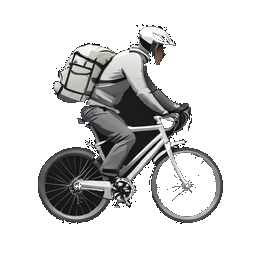
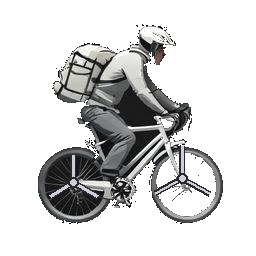
feat(assets): ship the animated courier — full-cyclist sprite, 6-frame wheel spin
Art gate outcome (Bertrand): the FLUX full-cyclist base (seed 5220)
becomes THE courier sprite. Its 6 frames all derive from that single
base with dark-outlined tri-spoke Ys stamped at 20-degree steps by the
generalized retouch-courier-spokes.mjs (replaces retouch-bike-spokes;
the validated bike layer is retired from the composite but its art and
retouch config stay as spare). CourierSprite renders the rider layer
only (bike mesh now serves just the pre-art fallback); courierArtReady
gates on the rider alone. Verified in-game headless: courier rides both
directions with the civilian tint, all 6 frames served, zero JS errors.

Claude-Session: https://claude.ai/code/session_01QeAWVzViSkMBgP9nVbGHat

Changed region(s): [[0.5938, 0.5625, 0.8438, 0.7812], [0.1875, 0.5938, 0.4062, 0.7812]]

diff --git a/src/render/scene/CourierSprite.tsx b/src/render/scene/CourierSprite.tsx
@@ -38,14 +38,16 @@ function setMap(mesh: Mesh, tex: Texture | null): void {
 }
 
 /**
- * Renders the street couriers (livreurs) as a two-plane composite: a BIKE plane
- * (wheel-rotation flipbook, z 0.70) under a RIDER plane (pedalling flipbook,
- * z 0.701), both flipped to face travel direction. Driven each frame from the
- * game state's `couriers` (world positions), like BulletSprite's pool.
+ * Renders the street couriers (livreurs). The RIDER layer is the complete
+ * cyclist sprite (FLUX base + wheel rotation stamped across its 6 frames by
+ * scripts/retouch-courier-spokes.mjs); the BIKE layer was retired from the
+ * composite after the art gate picked the full-cyclist sprite (its validated
+ * art stays committed as spare, and its mesh here only serves the pre-art
+ * fallback). Driven each frame from the game state's `couriers` (world
+ * positions), like BulletSprite's pool.
  *
- * Until BOTH layers' frame-1 art exists (generated later in CI), the composite
- * falls back to the legacy single civilian sprite on the bike plane so the game
- * is visually unchanged from before this feature.
+ * Until the rider frame-1 art exists (generated in CI), it falls back to the
+ * legacy single civilian sprite so the game is visually unchanged.
  */
 export function CourierSprite({ stateRef }: Props): JSX.Element {
   const bikeRefs = useRef<(Mesh | null)[]>(Array.from({ length: MAX_COURIERS }, () => null));
@@ -83,13 +85,13 @@ export function CourierSprite({ stateRef }: Props): JSX.Element {
         continue;
       }
 
-      bike.visible = true;
+      // Bike layer retired from the composite (full-cyclist rider sprite won
+      // the art gate); its mesh is only the pre-art fallback above.
+      bike.visible = false;
       rider.visible = true;
       // id-derived phase (0.29 is a small irrational-ish offset) so couriers on
-      // screen at once don't pedal/roll in lockstep; both layers of one courier
-      // share this phase so wheels and legs stay in sync.
+      // screen at once don't roll in lockstep.
       const phase = courier.id * 0.29;
-      updateLayer(bike, "bike", courier, phase, clock.current, BIKE_Z);
       updateLayer(rider, "rider", courier, phase, clock.current, RIDER_Z);
     }
   });

diff --git a/src/render/scene/courierTextures.ts b/src/render/scene/courierTextures.ts
@@ -95,15 +95,16 @@ export function getCourierTexture(layer: string, frame: number): Texture | null 
   return cache.get(frameFile) ?? cache.get(frame1File) ?? null;
 }
 
-// True only once frame 1 of BOTH layers is decoded and cached — the gate
-// CourierSprite uses to swap from the legacy single sprite to the two-plane
-// composite. Calling it also kicks off loading of both layers' frames. Note: a
-// 404 poisons the `failed` set for the whole session (same policy as
+// True only once the RIDER layer's frame 1 is decoded and cached — the gate
+// CourierSprite uses to swap from the legacy single sprite to the animated
+// full-cyclist sprite (the bike layer was retired from the composite; its art
+// stays committed as spare). Calling it also kicks off loading of the frames.
+// Note: a 404 poisons the `failed` set for the whole session (same policy as
 // enemyTextures), so a client loaded BEFORE the CI art landed keeps the legacy
 // sprite until the next page load — the swap is per-load, not live.
 export function courierArtReady(): boolean {
   let ready = true;
-  for (const layer of ["bike", "rider"]) {
+  for (const layer of ["rider"]) {
     const entry = LAYERS[layer];
     if (entry === undefined) {
       ready = false;

diff --git a/scripts/SCRIPTS.md b/scripts/SCRIPTS.md
@@ -798,17 +798,19 @@ delivery at all, never on a bad-looking halo. Outputs are gitignored
   browser; the CI composite actions pin deliberately and install the matching
   browser via `npx playwright install`.
 
-## retouch-bike-spokes.mjs — Courier bike spoke rotation (scripted retouch)
+## retouch-courier-spokes.mjs — Courier wheel rotation (scripted retouch)
 
-FLUX draws a consistent whole bicycle per frame (pinned seed) but refuses
-legible tri-spoke mag wheels and re-rolls small accessories between frames. This
-game-graphist pass derives **every** bike frame from the single FLUX base
-(`bike.png`): the two wheel discs are detected (dark-pixel centroids in two
-x-windows that exclude the frame-bag band) and three bold pale spokes are drawn
-per wheel, rotated 0°/40°/80° per frame — one full 120° spoke period across the
-3-frame flip, identical bike everywhere, zero flicker. Deterministic and
-idempotent; runs in CI right after generation + cutout.
+FLUX draws a consistent subject per frame (pinned seed) but refuses legible
+tri-spoke mag wheels and re-rolls small details between frames. This
+game-graphist pass derives **every** frame of each courier layer from its
+single FLUX base: the two wheel discs are detected (dark-pixel centroids in two
+x-windows) and three bold spokes are drawn per wheel, rotated per frame across
+a 120° period — identical sprite everywhere, zero flicker. Layers: **rider**
+(the shipped full-cyclist sprite, 6 frames at 20° steps, dark-outlined pale
+spokes) and **bike** (validated spare art, 3 frames at 40° steps). A layer with
+no base PNG on disk is skipped. Deterministic and idempotent; runs in CI right
+after generation + cutout.
 
 ```bash
-node scripts/retouch-bike-spokes.mjs   # requires @napi-rs/canvas
+node scripts/retouch-courier-spokes.mjs   # requires @napi-rs/canvas
 ```

diff --git a/docs/agent-handoffs.md b/docs/agent-handoffs.md
@@ -1356,3 +1356,7 @@ enemies` PASS (1 pre-existing non-blocking WARN on the civilian prompt).
 - art ASSET GATE (bike): PASS par Bertrand — take 4 per-frame + retouche scriptée
   des bâtons (retouch-bike-spokes.mjs, 0/40/80°, base unique = zéro flicker).
   Rider: prochaine itération.
+- art ASSET GATE (courier final): PASS par Bertrand — sprite cycliste complet unique
+  (base FLUX seed 5220) + rotation de roues scriptée 6 frames/20° (retouch-courier-
+  spokes.mjs, bâtons à liseré). Layer vélo retiré du composite, art conservé en
+  réserve. Vérifié en jeu (burst headless, zéro erreur).
